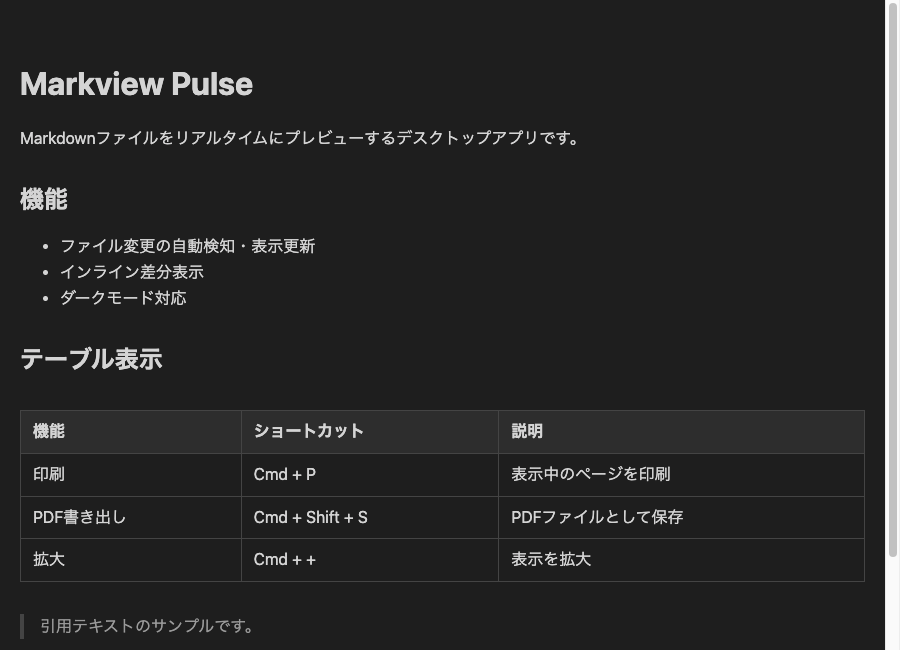
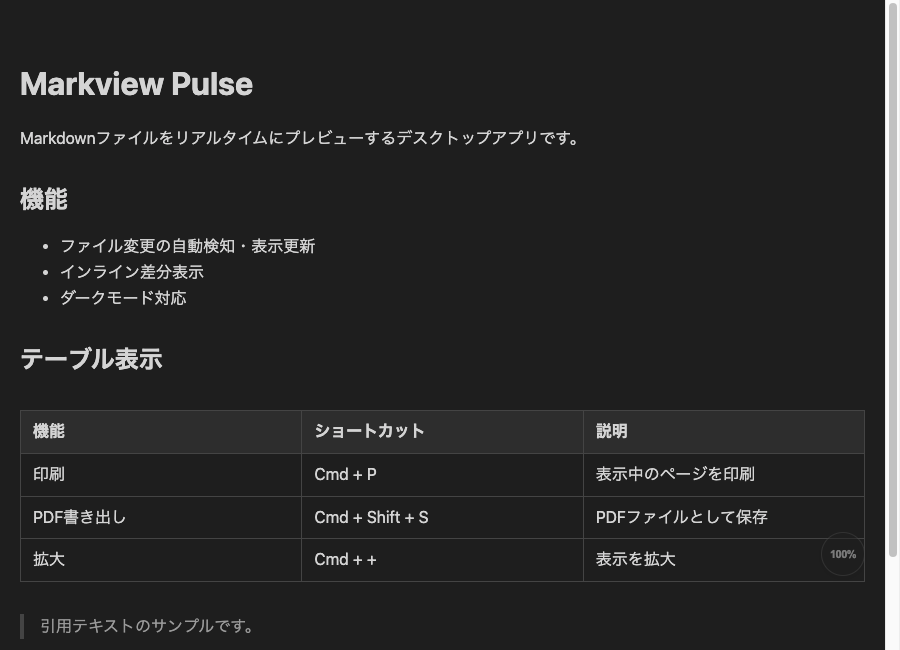
Update README with table layout toggle docs and fresh screenshots
テーブル列幅切り替え機能の説明を追加。
スクリーンショットを最新のデザインに更新。
プロジェクト構成のディレクトリ名を修正。

diff --git a/README.md b/README.md
@@ -32,7 +32,7 @@ Markdownファイルをリアルタイムにプレビューするデスクトッ
 - ファイルのドラッグ&ドロップ
 - 最近開いたファイルの履歴
 - 印刷 / PDF書き出し
-- テーブル表示（罫線付き・横スクロール対応）
+- テーブル表示（罫線付き・横スクロール対応・列幅3パターン切り替え）
 - スクロール位置の保持（ファイル更新時）
 - `.md` ファイル関連付け
 
@@ -99,6 +99,16 @@ npm run dev
   - 赤背景+取り消し線: 削除された部分
 - もう一度クリックすると通常表示に戻ります
 
+### テーブル列幅の切り替え
+
+テーブルが含まれるMarkdownを表示すると、右下にテーブル列幅の切り替えボタンが表示されます。クリックで3パターンを順に切り替えます。
+
+| ボタン表示 | パターン | 説明 |
+|---|---|---|
+| `100%` | 均等 | 幅100%で列を等分 |
+| `auto` | コンパクト | 内容に合わせた最小幅 |
+| `wide` | 広め | 幅100%でゆったり表示 |
+
 ## 開発
 
 ### 開発環境セットアップ
@@ -119,7 +129,7 @@ npm test
 ### プロジェクト構成
 
 ```
-watch-markdown/
+markview-pulse/
 ├── src/
 │   ├── main.ts        # Electronメインプロセス（ファイル読み込み・監視・差分生成）
 │   ├── preload.ts     # IPC通信のブリッジ
